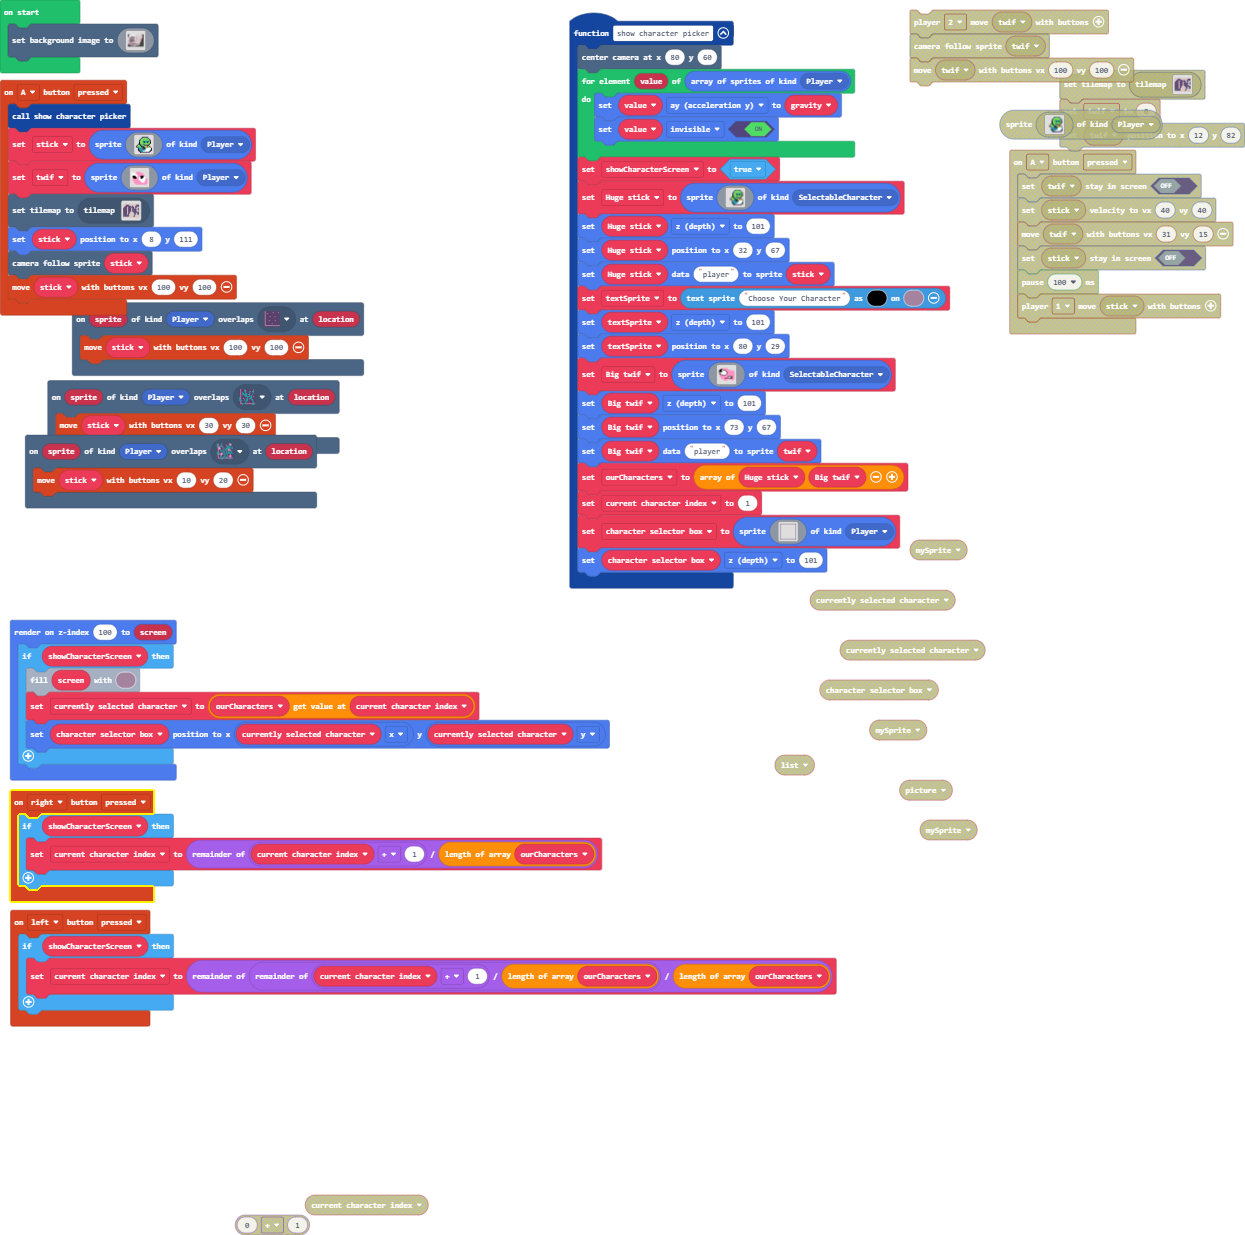
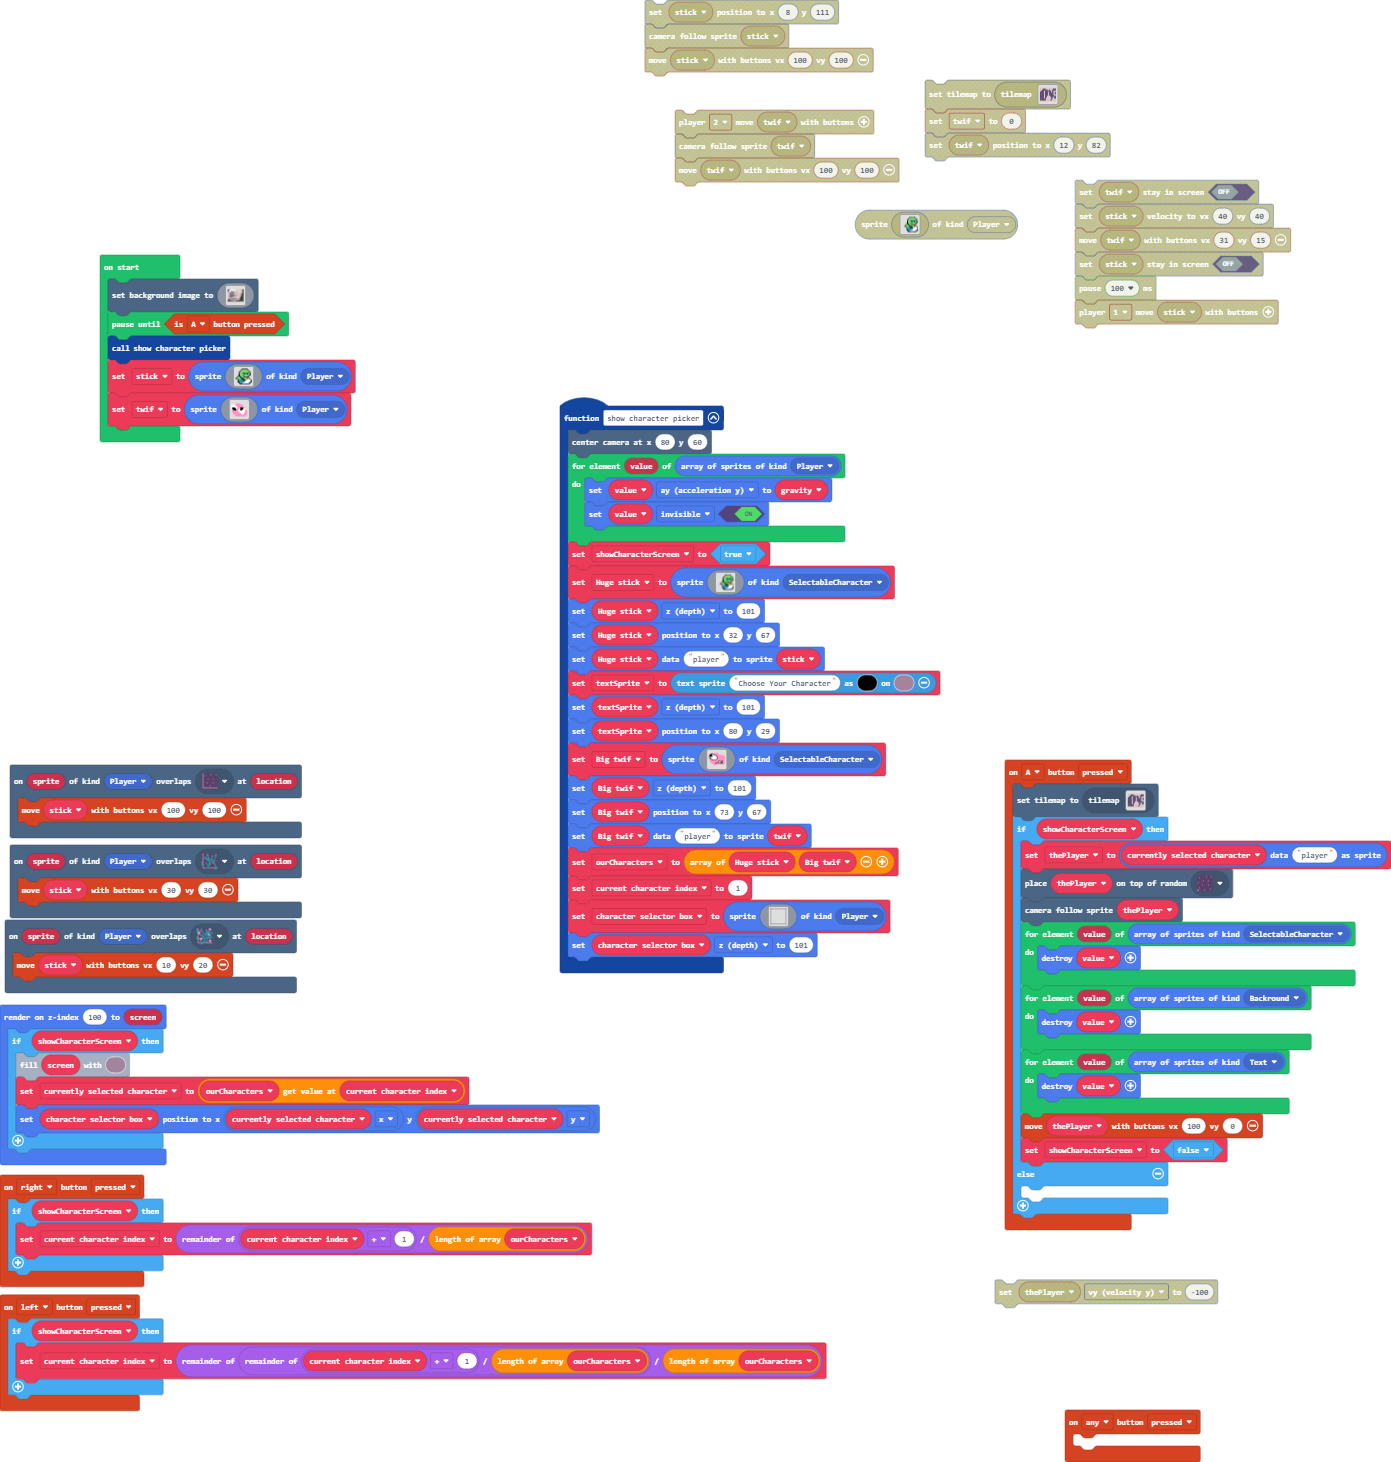
Fixed many errors yet still not finished

diff --git a/main.ts b/main.ts
@@ -1,5 +1,6 @@
 namespace SpriteKind {
     export const SelectableCharacter = SpriteKind.create()
+    export const Backround = SpriteKind.create()
 }
 scene.onOverlapTile(SpriteKind.Player, assets.tile`myTile0`, function (sprite, location) {
     controller.moveSprite(stick, 10, 20)
@@ -68,48 +69,29 @@ function show_character_picker () {
 scene.onOverlapTile(SpriteKind.Player, assets.tile`myTile`, function (sprite, location) {
     controller.moveSprite(stick, 30, 30)
 })
+controller.anyButton.onEvent(ControllerButtonEvent.Pressed, function () {
+	
+})
 controller.A.onEvent(ControllerButtonEvent.Pressed, function () {
-    show_character_picker()
-    stick = sprites.create(img`
-        . . . . . . c c c c c c . . . . 
-        . . . . . c 6 7 7 7 7 6 c . . . 
-        . . . . c 7 7 7 7 7 7 7 7 c . . 
-        . . . c 6 7 7 7 7 7 7 7 7 6 c . 
-        . . . c 7 7 7 c 6 6 6 6 c 7 c . 
-        . . . f 7 7 7 6 f 6 6 f 6 7 f . 
-        . . . f 7 7 7 7 7 7 7 7 7 7 f . 
-        . . c f 6 7 7 c 6 7 7 7 7 f . . 
-        . c 7 7 f 6 7 7 c c c c f . . . 
-        c 7 7 7 7 f c 6 7 7 7 2 7 c . . 
-        c c 6 7 7 6 c f c 7 7 2 7 7 c . 
-        . . c 6 6 6 c c f 6 7 1 1 1 1 c 
-        . . f 6 6 6 6 c 6 6 1 1 1 1 1 f 
-        . . f c 6 6 6 6 6 1 1 1 1 1 6 f 
-        . . . f 6 6 6 1 1 1 1 1 1 6 f . 
-        . . . . f c c c c c c c c c . . 
-        `, SpriteKind.Player)
-    twif = sprites.create(img`
-        . . . . . . . . . . . . . . . . 
-        . . . . . . . . . . . . . . . . 
-        . . . . . 3 3 3 3 . . . . . . . 
-        1 1 1 1 3 3 3 3 3 3 3 . . . . . 
-        1 1 1 1 1 3 3 3 3 3 3 3 . . . . 
-        1 1 1 1 1 1 3 3 3 3 3 3 3 . . . 
-        1 f f f 1 1 3 3 3 f f f 3 . . . 
-        1 f f f f 1 3 3 1 f f f 1 1 . . 
-        . 3 f f f 3 3 1 1 f f 1 1 1 3 . 
-        . 3 3 3 3 3 3 1 1 1 1 1 1 1 3 3 
-        . 3 3 3 3 3 3 3 1 1 1 1 1 1 3 3 
-        . . 3 3 3 3 3 3 3 1 1 1 1 3 3 3 
-        . . 3 3 3 3 3 3 3 3 1 1 1 3 3 3 
-        . . . 3 3 3 3 3 3 3 3 3 3 3 3 3 
-        . . . . 3 3 3 3 3 3 3 3 3 3 3 . 
-        . . . . . . . . . . . . . . . . 
-        `, SpriteKind.Player)
     tiles.setCurrentTilemap(tilemap`level1`)
-    stick.setPosition(8, 111)
-    scene.cameraFollowSprite(stick)
-    controller.moveSprite(stick, 100, 100)
+    if (showCharacterScreen) {
+        thePlayer = sprites.readDataSprite(currently_selected_character, "player")
+        tiles.placeOnRandomTile(thePlayer, sprites.dungeon.darkGroundNorthEast1)
+        scene.cameraFollowSprite(thePlayer)
+        for (let value of sprites.allOfKind(SpriteKind.SelectableCharacter)) {
+            sprites.destroy(value)
+        }
+        for (let value of sprites.allOfKind(SpriteKind.Backround)) {
+            sprites.destroy(value)
+        }
+        for (let value of sprites.allOfKind(SpriteKind.Text)) {
+            sprites.destroy(value)
+        }
+        controller.moveSprite(thePlayer, 100, 0)
+        showCharacterScreen = false
+    } else {
+    	
+    }
 })
 controller.left.onEvent(ControllerButtonEvent.Pressed, function () {
     if (showCharacterScreen) {
@@ -132,14 +114,15 @@ scene.onOverlapTile(SpriteKind.Player, sprites.dungeon.darkGroundSouthWest0, fun
     controller.moveSprite(stick, 100, 100)
 })
 let currently_selected_character: Sprite = null
+let thePlayer: Sprite = null
 let character_selector_box: Sprite = null
 let current_character_index = 0
 let ourCharacters: Sprite[] = []
-let twif: Sprite = null
 let Big_twif: Sprite = null
 let textSprite: TextSprite = null
 let Huge_stick: Sprite = null
 let showCharacterScreen = false
+let twif: Sprite = null
 let stick: Sprite = null
 scene.setBackgroundImage(img`
[1 lines of base64/hex data omitted]
@@ -193,23 +176,23 @@ scene.setBackgroundImage(img`
[15 lines of base64/hex data omitted]
-    dbbbbbbbbbbbbbbbbbbbbbbcccccccccccccccccccccccccccccccccccccccccccbbbbbbbbbbbbbbbbbbbbbbbbbbbbbbbbbbbbbbbdddddddddddddbdddddddddddddbcffffffffffffffffffffffffff
-    bbbbbbbbbbbbbbbbbbbbbbccccccccccccccccccccccccccccccccccccccccccccbbbbbbbbbbbbbbbbbbbbbbbbbbbbdbbbdbddddbdddddddddddddddddddddddddddccffffffffffffffffffffffffff
-    bbbbbbbbddbbbbbbbbbbbbcccccccccccccccccccccccccccccccccccccccccccccbbbbbbbbbbbbbbbbbbbbbbbbddddddddddbddddddddddddddddddddddbdddddbbbffbdfffffffffffffffffffffff
-    bbbbbbbdddddbbbbbbbbbbcccccccccccccccccccccccccccccccccccccccccccccbbbbbbbbbbbbbbbbbbbbbbddddbddddddddbdddddddddddddddddddddddddddbddfcbfdffffffffffffffffffffff
-    bbbbddddddddddddddbbbbcccccccccccccccccccccccccccccccccccccccccccccccbbbbbbbbbbbbdddddddddddddddddddddddddddddddddddddddddddddddddbdffdffbcfffffffffffffffffffff
[12 lines of base64/hex data omitted]
+    dbbbbbbbbbbbbbbbbbbbbbbcccccccccccccccccfcccccfcfcccccfcccccfcccccbbfbbbbfbbbbbbbbbfbbbbbbbbbbbbbbbbbbbbbdddddddddddddbdddddddddddddbcffffffffffffffffffffffffff
+    bbbbbbbbbbbbbbbbbbbbbbccccccccccccccccccfcccccfffcccccfcccccfcccccbbfbbbfbbbbbbbbbbfbbbbbbbbbbdbbbdbddddbdddddddddddddddddddddddddddccffffffffffffffffffffffffff
+    bbbbbbbbddbbbbbbbbbbbbccccccccccccccccccfccccccfccccccfcccccfccccccbfbbfbbbbbbbbbbbfbbbbbbbddddddddddbddddddddddddddddddddddbdddddbbbffbdfffffffffffffffffffffff
+    bbbbbbbdddddbbbbbbbbbbccccccccccccccccccfccccccfccccccfccccfcccccccbbfbffffffffffbbfffffffffdbddddddddbdddddddddddddddddddddddddddbddfcbfdffffffffffffffffffffff
+    bbbbddddddddddddddbbbbcccccccccccccccccccccccccccccccccccccccccccccccbbbbbbbbbbbbbddddddddddddddddddddddddddddddddddddddddddddddddbdffdffbcfffffffffffffffffffff
     bbbddddddddddddbbbbbbbcccccccccccccccccccccccccccccccccccccccccccccccccbbbdbbdbdddddddbddddbddddddddddddddddddddddddddddddddddddddcffcdfffffffffffffffffcfffffff
     bbdddddddddddddbbbbbbbcccccccccccccccccccccccccccccccccccccccccccccbcccbbbbbddbdddddddddddddddddddddddddddddddddddddddddddddddddbcdffdfcdfffffffffffffffffffffff
     bddddddddddddddbdbbbbccccccccccccccccccccccccccccccccccccccccccbcbbbcbddddddddddddbddddddddddddddddddddddddddddddddddbddddddddddbfcffffcffffffffffffffffffffffff
@@ -263,3 +246,41 @@ scene.setBackgroundImage(img`
     fffffffffffffffffffffffffffffffffffffffffffffffffffffffffffffffffffffffffffffffffffffffffffffffffffffffffffffffffffffffffffffbffffbffffdfffcddcfffffffffffffffff
     fffffffffffffffffffffffffffffffffbffffffbffffffffffffffffffffffbfcffffcfffffffffffffffcffffffffffffffffffffffffffffffffffffffffffffffffffffdddffffffffffccffffff
     `)
+pauseUntil(() => controller.A.isPressed())
+show_character_picker()
+stick = sprites.create(img`
+    . . . . . . c c c c c c . . . . 
+    . . . . . c 6 7 7 7 7 6 c . . . 
+    . . . . c 7 7 7 7 7 7 7 7 c . . 
+    . . . c 6 7 7 7 7 7 7 7 7 6 c . 
+    . . . c 7 7 7 c 6 6 6 6 c 7 c . 
+    . . . f 7 7 7 6 f 6 6 f 6 7 f . 
+    . . . f 7 7 7 7 7 7 7 7 7 7 f . 
+    . . c f 6 7 7 c 6 7 7 7 7 f . . 
+    . c 7 7 f 6 7 7 c c c c f . . . 
+    c 7 7 7 7 f c 6 7 7 7 2 7 c . . 
+    c c 6 7 7 6 c f c 7 7 2 7 7 c . 
+    . . c 6 6 6 c c f 6 7 1 1 1 1 c 
+    . . f 6 6 6 6 c 6 6 1 1 1 1 1 f 
+    . . f c 6 6 6 6 6 1 1 1 1 1 6 f 
+    . . . f 6 6 6 1 1 1 1 1 1 6 f . 
+    . . . . f c c c c c c c c c . . 
+    `, SpriteKind.Player)
+twif = sprites.create(img`
+    . . . . . . . . . . . . . . . . 
+    . . . . . . . . . . . . . . . . 
+    . . . . . 3 3 3 3 . . . . . . . 
+    1 1 1 1 3 3 3 3 3 3 3 . . . . . 
+    1 1 1 1 1 3 3 3 3 3 3 3 . . . . 
+    1 1 1 1 1 1 3 3 3 3 3 3 3 . . . 
+    1 f f f 1 1 3 3 3 f f f 3 . . . 
+    1 f f f f 1 3 3 1 f f f 1 1 . . 
+    . 3 f f f 3 3 1 1 f f 1 1 1 3 . 
+    . 3 3 3 3 3 3 1 1 1 1 1 1 1 3 3 
+    . 3 3 3 3 3 3 3 1 1 1 1 1 1 3 3 
+    . . 3 3 3 3 3 3 3 1 1 1 1 3 3 3 
+    . . 3 3 3 3 3 3 3 3 1 1 1 3 3 3 
+    . . . 3 3 3 3 3 3 3 3 3 3 3 3 3 
+    . . . . 3 3 3 3 3 3 3 3 3 3 3 . 
+    . . . . . . . . . . . . . . . . 
+    `, SpriteKind.Player)

diff --git a/tilemap.g.ts b/tilemap.g.ts
@@ -67,7 +67,7 @@ namespace myTiles {
 . . . . . . . . . . . . . . . . 
 `, [myTiles.transparency16], TileScale.Sixteen);
             case "level1":
[2 lines of base64/hex data omitted]
 . . . . . . . . . . . . . . . . 
 2 2 2 2 2 2 2 2 2 2 2 2 2 2 2 2 
 2 2 2 . . . 2 2 2 2 2 2 2 . . . 
@@ -84,7 +84,7 @@ namespace myTiles {
 . . . . . . 2 2 2 2 . . 2 2 2 2 
 2 2 2 2 2 2 2 2 2 2 2 2 2 2 2 2 
 2 2 2 2 2 2 2 2 2 2 2 2 2 2 2 2 
-`, [myTiles.transparency16,sprites.dungeon.floorLight0,sprites.dungeon.darkGroundSouthWest0,sprites.dungeon.floorLightMoss,sprites.dungeon.floorLight4,sprites.dungeon.floorLight2,sprites.dungeon.floorLight1,myTiles.tile1,sprites.dungeon.floorLight5,sprites.dungeon.doorClosedEast,sprites.dungeon.stairWest,sprites.dungeon.chestClosed,myTiles.tile2], TileScale.Sixteen);
+`, [myTiles.transparency16,sprites.dungeon.floorLight0,sprites.dungeon.darkGroundSouthWest0,sprites.dungeon.floorLightMoss,sprites.dungeon.floorLight4,sprites.dungeon.floorLight2,sprites.dungeon.floorLight1,myTiles.tile1,sprites.dungeon.floorLight5,sprites.dungeon.doorClosedEast,sprites.dungeon.stairWest,sprites.dungeon.chestClosed,myTiles.tile2,sprites.dungeon.darkGroundNorthEast1], TileScale.Sixteen);
         }
         return null;
     })
